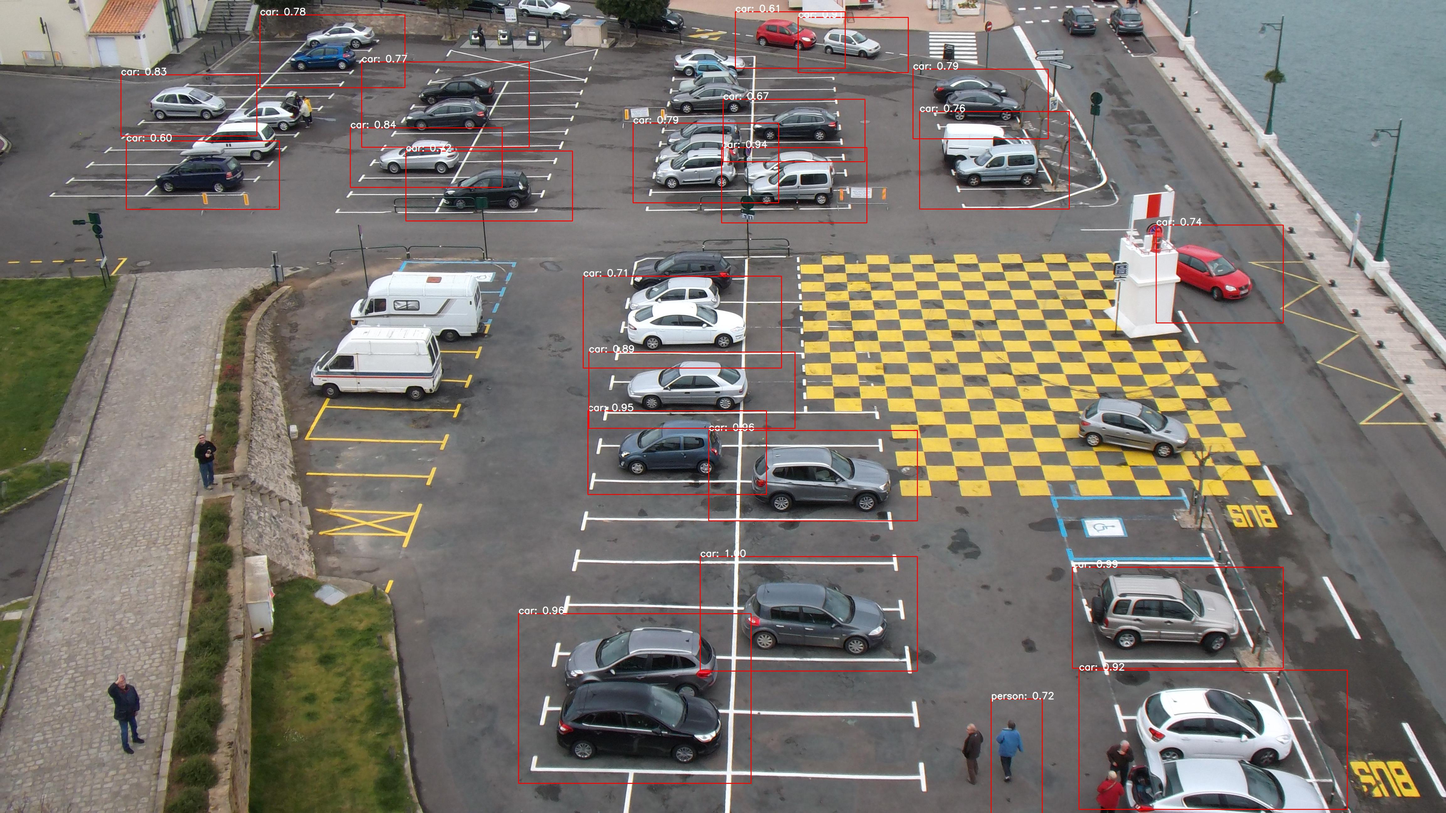
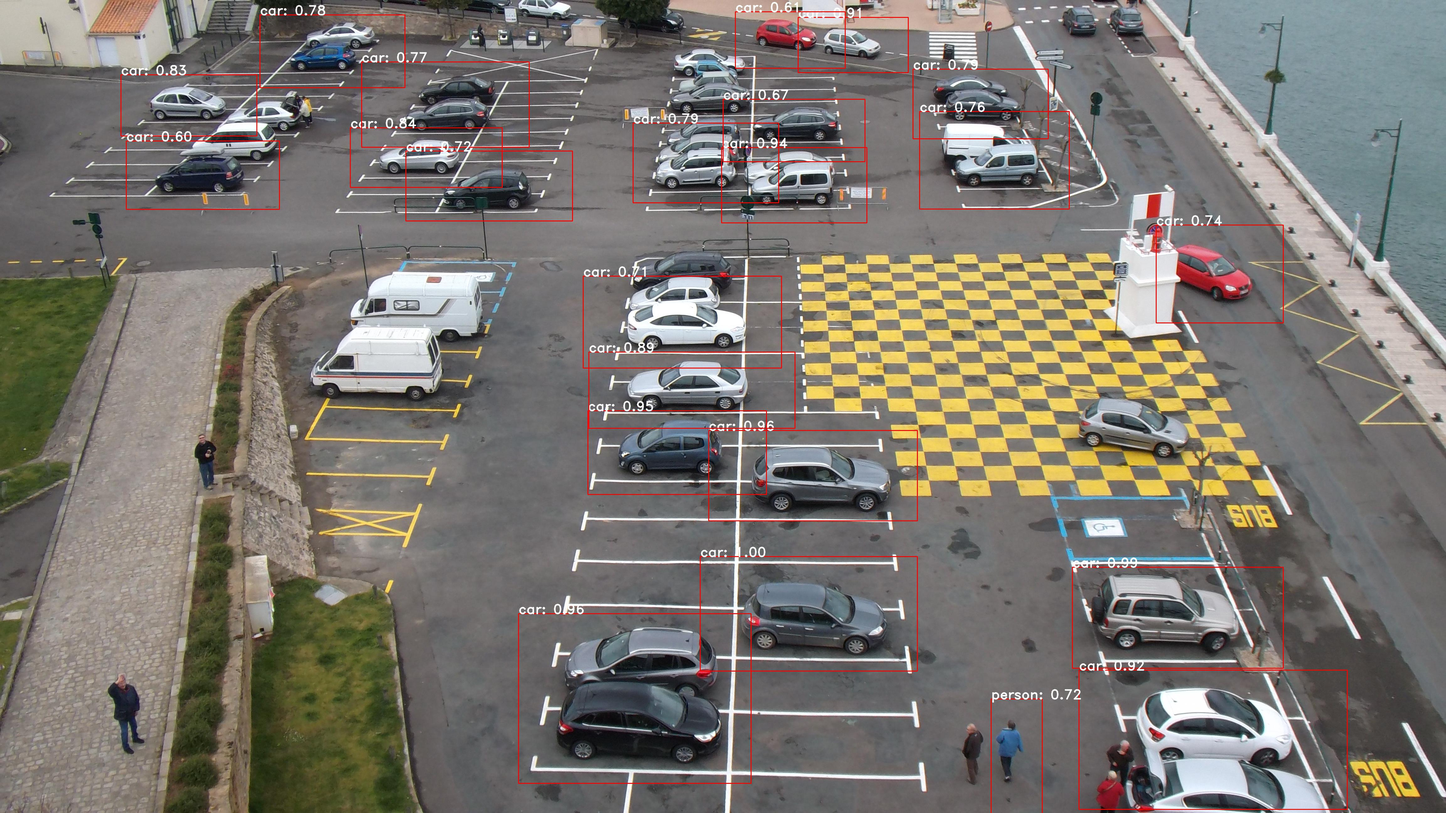
minor changes and added more examples

diff --git a/SSD-Object-Detection.py b/SSD-Object-Detection.py
@@ -1,6 +1,4 @@
-# -*- coding: utf-8 -*-
-
-# Object Detection using SSD(Single Shot Multibox Detector)
+# Object Detection using SSD512(Single Shot Multibox Detector)
 
 # Libraries
 from keras import backend as K
@@ -14,17 +12,6 @@ import cv2
 # Dependencies
 from models.keras_ssd512 import ssd_512
 from keras_loss_function.keras_ssd_loss import SSDLoss
-from keras_layers.keras_layer_AnchorBoxes import AnchorBoxes
-from keras_layers.keras_layer_DecodeDetections import DecodeDetections
-from keras_layers.keras_layer_DecodeDetectionsFast import DecodeDetectionsFast
-from keras_layers.keras_layer_L2Normalization import L2Normalization
-
-from ssd_encoder_decoder.ssd_output_decoder import decode_detections, decode_detections_fast
-
-from data_generator.object_detection_2d_data_generator import DataGenerator
-from data_generator.object_detection_2d_photometric_ops import ConvertTo3Channels
-from data_generator.object_detection_2d_geometric_ops import Resize
-from data_generator.object_detection_2d_misc_utils import apply_inverse_transforms
 
 # Defining the width and height of the image
 height = 512
@@ -85,27 +72,33 @@ input_image_path = 'inputs/images'
 output_image_path = 'outputs/images'
 
 # Function to detect objects in image
-def predict_image(input_image):
-	input_image_height, input_image_width = input_image.shape[:2]
+def detect_object(input_image, original_image):
+	original_image_height, original_image_width = original_image.shape[:2]
 	y_pred = model.predict(input_image)
 	actual_prediction = [y_pred[k][y_pred[k,:,1] > confidence_threshold] for k in range(y_pred.shape[0])]
 	for box in actual_prediction[0]:
-		x0 = box[-4] * input_image_width / width
-		y0 = box[-3] * input_image_height / height
-		x1 = box[-2] * input_image_width / width
-		y1 = box[-1] * input_image_height / height
-		label_text = '{}: {:.2f}'.format(classes[int(box[0])], box[1])
-		cv2.rectangle(input_image, (int(x0), int(y0)), (int(x1), int(y1)), (255, 0, 0), 2)
-		cv2.putText(input_image, label_text, (int(x0), int(y0)), cv2.FONT_HERSHEY_SIMPLEX, 1, (255, 255, 255), 2, cv2.LINE_AA)
-	return input_image
+		# Coordinates of diagonal points of bounding box
+		x0 = box[-4] * original_image_width / width
+		y0 = box[-3] * original_image_height / height
+		x1 = box[-2] * original_image_width / width
+		y1 = box[-1] * original_image_height / height
+		label_text = '{}: {:.2f}'.format(classes[int(box[0])], box[1])	# label text
+		cv2.rectangle(original_image, (int(x0), int(y0)), (int(x1), int(y1)), (255, 0, 0), 2)	# drwaing rectangle
+		cv2.putText(original_image, label_text, (int(x0), int(y0)), cv2.FONT_HERSHEY_DUPLEX, 1.4, (255, 255, 255), 2, cv2.LINE_AA) # putting lable
+	return original_image
 	
 
 # Detecting objects in images
 for file in os.listdir(input_image_path):
-	print('Reading', file)
-	input_image = imageio.imread(os.path.join(input_image_path, file))
+	print('Reading', file)  
+	input_image = image.load_img(os.path.join(input_image_path, file), target_size=(height, width))	#  Reading image as 512*512 size
+	input_image = image.img_to_array(input_image)	# converting to array
+	input_image = np.reshape(input_image, (1, 512, 512, 3)) #expanding dimension
+	original_image = imageio.imread(os.path.join(input_image_path, file))	# original image for box purpose
 	if input_image is not None:
-		output_image = predict_image(input_image)
-		imageio.imwrite(os.path.join(output_image_path, file), output_image[:, :, :])
+		output_image = detect_object(input_image, original_image)	# detecting objects
+		imageio.imwrite(os.path.join(output_image_path, file), output_image[:, :, :])	# savinng back images
 		
+		
+# TODO make video support also
 
